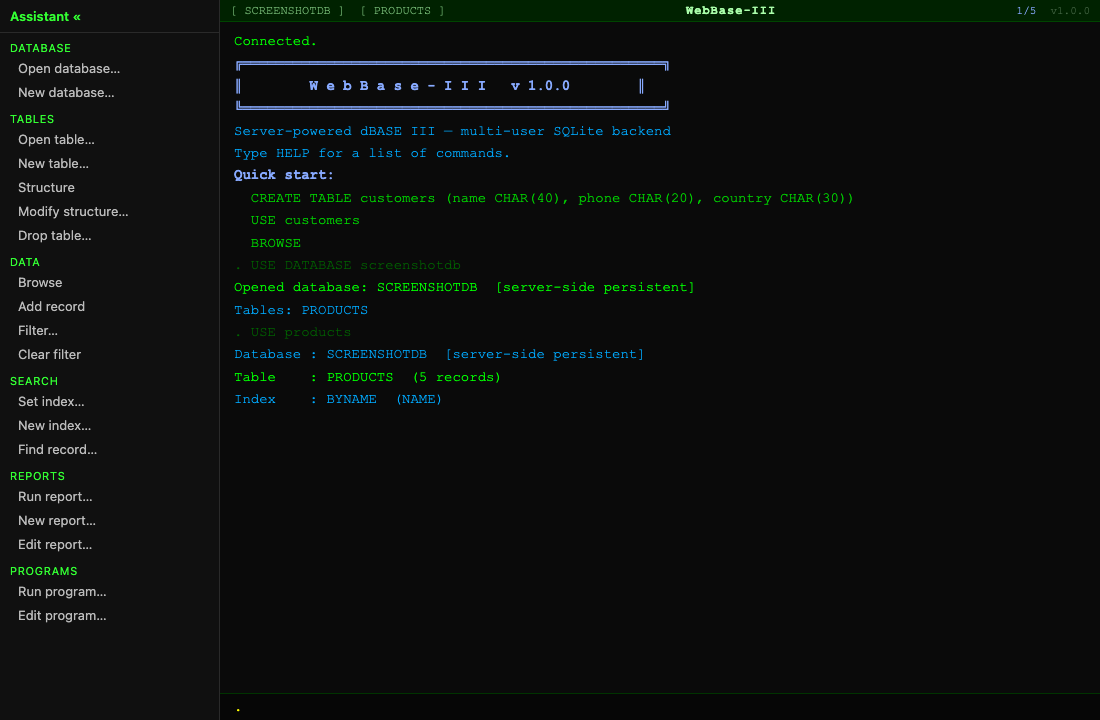
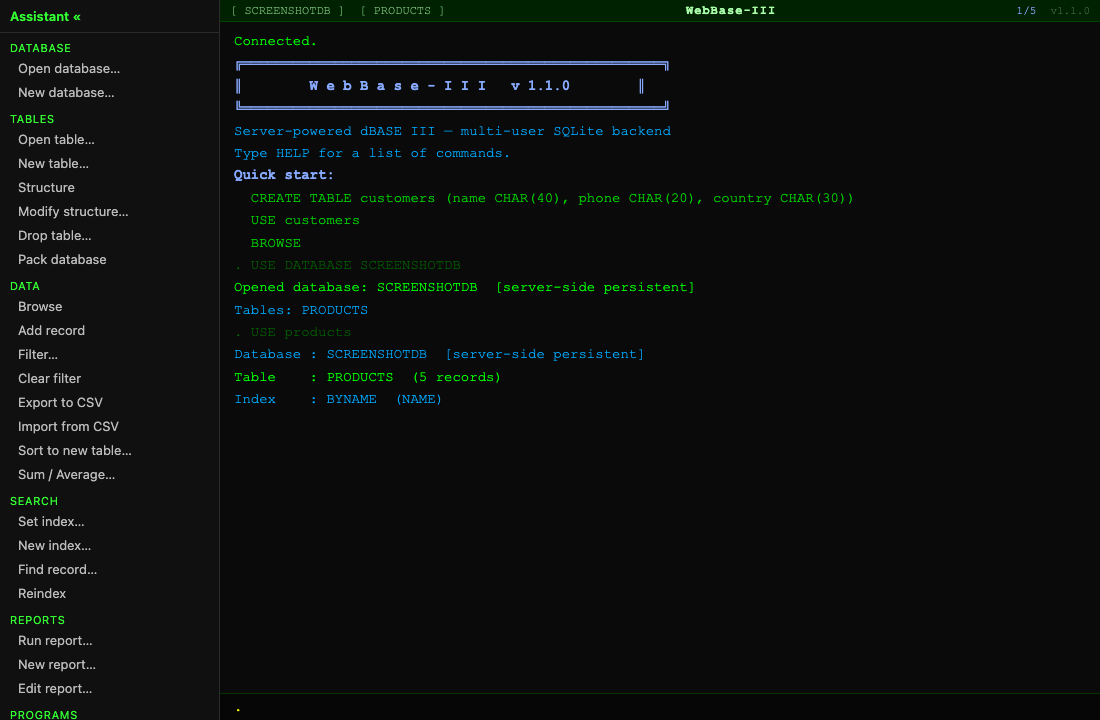
docs: retake Assistant screenshot + demo GIF, record plan outcome (#33)

Changed region(s): [[0.0, 0.3361, 0.1236, 1.0]]

diff --git a/docs/superpowers/plans/2026-06-28-assistant-catalog-parity.md b/docs/superpowers/plans/2026-06-28-assistant-catalog-parity.md
@@ -23,7 +23,7 @@ Adds the `onRun` action hook (a click handler that can read the active table nam
 - Modify: `src/ui/wizards/index.ts`
 - Test: `tests/assistant.spec.ts`
 
-- [ ] **Step 1: Write the failing e2e tests**
+- [x] **Step 1: Write the failing e2e tests**
 
 Append this block to `tests/assistant.spec.ts` (it reuses the file's existing `boot`/`clickAction` helpers defined at the top):
 
@@ -74,12 +74,12 @@ test.describe('Assistant — post-v0.6 commands (CSV / REINDEX / PACK)', () => {
 });
 ```
 
-- [ ] **Step 2: Run the tests to verify they fail**
+- [x] **Step 2: Run the tests to verify they fail**
 
 Run: `npx playwright test tests/assistant.spec.ts -g "post-v0.6"`
 Expected: FAIL — the actions "Export to CSV", "Import from CSV", "Reindex", "Pack database" do not exist, so `clickAction` finds no element / times out.
 
-- [ ] **Step 3: Add `onRun`, immediate-action `confirm`, and active-table tracking to `Assistant.ts`**
+- [x] **Step 3: Add `onRun`, immediate-action `confirm`, and active-table tracking to `Assistant.ts`**
 
 In `src/ui/Assistant.ts`, extend the `WizardName` type (line 4) to include the two new wizards:
 
@@ -135,7 +135,7 @@ Update `activate()` to honour `confirm` on immediate actions and dispatch `onRun
   }
 ```
 
-- [ ] **Step 4: Add the catalog actions**
+- [x] **Step 4: Add the catalog actions**
 
 In `CATEGORIES`, append to the **Data** category's `actions` array (after `Clear filter`):
 
@@ -159,7 +159,7 @@ Append to the **Tables** category's `actions` array (after `Drop table…`):
       confirm: () => 'VACUUM rewrites the database file to reclaim space. Continue?' },
 ```
 
-- [ ] **Step 5: Register the new wizards in the dispatcher**
+- [x] **Step 5: Register the new wizards in the dispatcher**
 
 In `src/ui/wizards/index.ts`, add imports next to the other wizard imports:
 
@@ -177,7 +177,7 @@ Add two cases to the `switch (name)` in `openWizard`, after the `report` case:
 
 > Note: `SortWizard.ts` and `AggregateWizard.ts` are created in Tasks 2 and 3. Until then the build will fail on the missing imports — that is expected; this task's e2e subset for CSV/REINDEX/PACK is verified after Tasks 2–3 land, OR temporarily stub the two wizard files with `export function openSortWizard(){}` / `export function openAggregateWizard(){}` to compile. Prefer doing Tasks 1→2→3 back-to-back and running the full suite once at the end of Task 3.
 
-- [ ] **Step 6: Commit**
+- [x] **Step 6: Commit**
 
 ```bash
 git add src/ui/Assistant.ts src/ui/wizards/index.ts tests/assistant.spec.ts
@@ -192,7 +192,7 @@ git commit -m "feat(assistant): CSV/REINDEX/PACK actions + onRun hook + active-t
 - Create: `src/ui/wizards/SortWizard.ts`
 - Test: `tests/assistant.spec.ts`
 
-- [ ] **Step 1: Write the failing e2e test**
+- [x] **Step 1: Write the failing e2e test**
 
 Append to `tests/assistant.spec.ts`:
 
@@ -237,12 +237,12 @@ test.describe('Assistant wizards — sort', () => {
 });
 ```
 
-- [ ] **Step 2: Run the test to verify it fails**
+- [x] **Step 2: Run the test to verify it fails**
 
 Run: `npx playwright test tests/assistant.spec.ts -g "wizards — sort"`
 Expected: FAIL — no `SortWizard`, so the wizard view / `#wz-sort-field` never appears.
 
-- [ ] **Step 3: Create `src/ui/wizards/SortWizard.ts`**
+- [x] **Step 3: Create `src/ui/wizards/SortWizard.ts`**
 
 ```typescript
 import { WizardShell } from './WizardShell';
@@ -289,12 +289,12 @@ export function openSortWizard(catalog: Catalog, run: (cmd: string) => void, onC
 }
 ```
 
-- [ ] **Step 4: Run the test to verify it passes**
+- [x] **Step 4: Run the test to verify it passes**
 
 Run: `npx playwright test tests/assistant.spec.ts -g "wizards — sort"`
 Expected: PASS (both cases).
 
-- [ ] **Step 5: Commit**
+- [x] **Step 5: Commit**
 
 ```bash
 git add src/ui/wizards/SortWizard.ts tests/assistant.spec.ts
@@ -309,7 +309,7 @@ git commit -m "feat(assistant): Sort wizard (SORT ON … TO) (#33)"
 - Create: `src/ui/wizards/AggregateWizard.ts`
 - Test: `tests/assistant.spec.ts`
 
-- [ ] **Step 1: Write the failing e2e test**
+- [x] **Step 1: Write the failing e2e test**
 
 Append to `tests/assistant.spec.ts`:
 
@@ -352,12 +352,12 @@ test.describe('Assistant wizards — aggregate', () => {
 });
 ```
 
-- [ ] **Step 2: Run the test to verify it fails**
+- [x] **Step 2: Run the test to verify it fails**
 
 Run: `npx playwright test tests/assistant.spec.ts -g "wizards — aggregate"`
 Expected: FAIL — no `AggregateWizard`, so `#wz-agg-op` never appears.
 
-- [ ] **Step 3: Create `src/ui/wizards/AggregateWizard.ts`**
+- [x] **Step 3: Create `src/ui/wizards/AggregateWizard.ts`**
 
 ```typescript
 import { WizardShell } from './WizardShell';
@@ -402,12 +402,12 @@ export function openAggregateWizard(catalog: Catalog, run: (cmd: string) => void
 }
 ```
 
-- [ ] **Step 4: Run the full Assistant suite to verify everything passes**
+- [x] **Step 4: Run the full Assistant suite to verify everything passes**
 
 Run: `npx playwright test tests/assistant.spec.ts`
 Expected: PASS — all existing cases plus the new CSV/REINDEX/PACK, sort, and aggregate cases.
 
-- [ ] **Step 5: Commit**
+- [x] **Step 5: Commit**
 
 ```bash
 git add src/ui/wizards/AggregateWizard.ts tests/assistant.spec.ts
@@ -425,7 +425,7 @@ Amends the DoD to require Assistant parity, and brings CHANGELOG/README/CLAUDE.m
 - Modify: `CHANGELOG.md`
 - Modify: `README.md`
 
-- [ ] **Step 1: Amend the Definition of Done in `CLAUDE.md`**
+- [x] **Step 1: Amend the Definition of Done in `CLAUDE.md`**
 
 Replace the second bullet under step 2 (the `**CI gates this.**` bullet) by inserting a new Assistant-parity bullet **before** it. Find this exact text:
 
@@ -440,7 +440,7 @@ and replace it with:
    - **CI gates this.** `.github/workflows/ci.yml` runs a `unit` job (vitest + build) and an `e2e` job (Playwright, auto-starting the dev server via the `webServer` block in `playwright.config.ts`) on every push/PR to `main` and `release/**`. A PR is not mergeable until both jobs are green — do not merge a release-branch PR with red or missing CI.
 ```
 
-- [ ] **Step 2: Update the Assistant architecture note in `CLAUDE.md`**
+- [x] **Step 2: Update the Assistant architecture note in `CLAUDE.md`**
 
 Find the `Assistant.ts` line in the `src/ui/` architecture block:
 
@@ -462,11 +462,11 @@ And in the `src/ui/wizards/` line, add the two new wizards:
                         SortWizard, AggregateWizard, index.ts dispatcher
 ```
 
-- [ ] **Step 3: Update the `tests/assistant.spec.ts` count note in `CLAUDE.md`**
+- [x] **Step 3: Update the `tests/assistant.spec.ts` count note in `CLAUDE.md`**
 
 In the Testing section, the `assistant.spec.ts` description currently reads `10 tests`. Run `npx playwright test tests/assistant.spec.ts --list | tail -1` to get the new total for that file, then update the count and the overall Playwright suite total in the "Playwright suites (49 tests)" sentence accordingly (add the number of new cases: 4 CSV/REINDEX/PACK + 2 sort + 2 aggregate = 8 new).
 
-- [ ] **Step 4: Add a CHANGELOG entry**
+- [x] **Step 4: Add a CHANGELOG entry**
 
 In `CHANGELOG.md`, under the `1.1.0` version heading's `### Added` section, add:
 
@@ -475,11 +475,11 @@ In `CHANGELOG.md`, under the `1.1.0` version heading's `### Added` section, add:
 - Definition of Done now requires every new user-facing command to be surfaced in the Assistant with a Playwright e2e case (#33).
 ```
 
-- [ ] **Step 5: Update `README.md`**
+- [x] **Step 5: Update `README.md`**
 
 In `README.md`, find the Assistant feature description / category list and update it to mention the new actions (CSV import/export, sort, sum/average, reindex, pack). Match the existing wording style of that section. (Search for "Assistant" in README.md to locate it.)
 
-- [ ] **Step 6: Run the full test suites**
+- [x] **Step 6: Run the full test suites**
 
 Run: `npm test`
 Expected: PASS (no unit regressions).
@@ -487,7 +487,7 @@ Expected: PASS (no unit regressions).
 Run: `npx playwright test`
 Expected: PASS (all e2e green).
 
-- [ ] **Step 7: Commit**
+- [x] **Step 7: Commit**
 
 ```bash
 git add CLAUDE.md CHANGELOG.md README.md

diff --git a/docs/superpowers/specs/2026-06-28-assistant-catalog-parity-design.md b/docs/superpowers/specs/2026-06-28-assistant-catalog-parity-design.md
@@ -107,6 +107,31 @@ action (or driving the wizard) must drive the REPL and assert the rendered resul
 Standard DoD: `npm test` + `npx playwright test` green; `package.json` already at
 `1.1.0` on the release branch; CHANGELOG + README + CLAUDE.md updated.
 
+## Implementation outcome (2026-06-28)
+
+Shipped as planned in PR #35 (based on `release/v1.1.0`, closes #33). All four
+catalog/wizard tasks plus the docs/DoD task landed; full suites green (vitest 258,
+Playwright 59; the 8 new e2e cases all pass and CI is green on the PR).
+
+Deviations from the plan, all minor:
+
+- **Output casing in tests.** The Sort e2e asserted `Sorted 2 record(s) into wiz_sorted`
+  but the server uppercases table names, so the assertion was corrected to
+  `WIZ_SORTED`. The wizard *preview* still shows the user's typed (lowercase) name.
+- **Stub-then-replace ordering.** Because Task 1 registers the `'sort'`/`'aggregate'`
+  wizards in `wizards/index.ts` before Tasks 2–3 create those files, Task 1 created
+  temporary no-op stubs for `SortWizard.ts` / `AggregateWizard.ts` to keep the build
+  compiling; Tasks 2–3 overwrote them with the real implementations.
+- **Stale test-count notes corrected.** Updating the CLAUDE.md Testing section revealed
+  the Playwright breakdown was already stale (missing `join.spec.ts` and
+  `propagation.spec.ts` from #10/#11) and the vitest count was 239; both were corrected
+  (Playwright 59, vitest 258).
+- **Visual assets retaken.** `screenshot-assistant.png` and `demo.gif` were re-recorded
+  — the Assistant sidebar is permanently visible (including in the demo GIF), so both
+  would otherwise show a sidebar missing the new entries.
+
+The deferred JOIN + Work areas/SET RELATION work is tracked in follow-up issue #34.
+
 ## Out of scope
 
 Record `DELETE`/`RECALL`, `REPLACE`, `?`/`STORE`, `GO`/`SKIP` — BROWSE already covers
